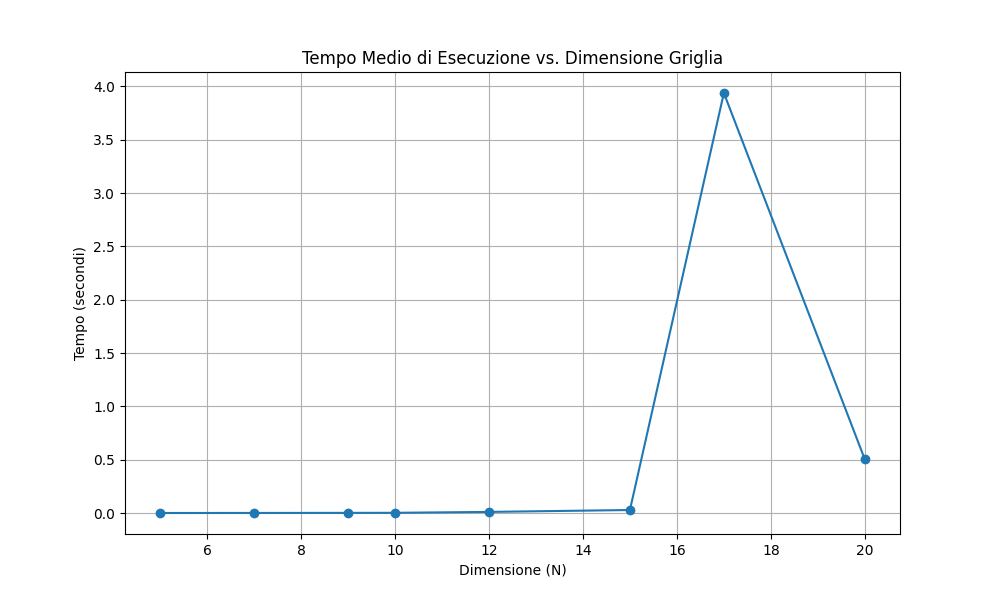
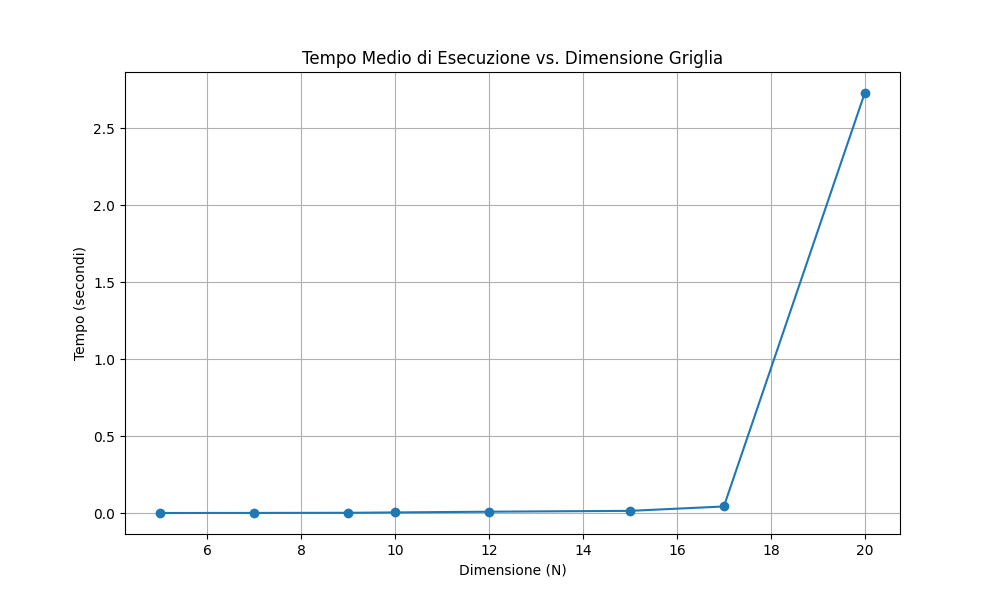
Generati nuovamente grafici

diff --git a/experiment.py b/experiment.py
@@ -74,9 +74,9 @@ def main(args):
             {"rows": 9, "cols": 9, "obstacle_ratio": 0.20, "num_runs": 20}, # config_index 2
             {"rows": 10, "cols": 10, "obstacle_ratio": 0.20, "num_runs": 10}, # config_index 3
             {"rows": 12, "cols": 12, "obstacle_ratio": 0.20, "num_runs": 10}, # config_index 4
-            {"rows": 15, "cols": 15, "obstacle_ratio": 0.20, "num_runs": 5},  # config_index 5
-            {"rows": 17, "cols": 17, "obstacle_ratio": 0.20, "num_runs": 5}, # config_index 6
-            {"rows": 20, "cols": 20, "obstacle_ratio": 0.20, "num_runs": 3},  # config_index 7
+            {"rows": 15, "cols": 15, "obstacle_ratio": 0.20, "num_runs": 10},  # config_index 5
+            {"rows": 17, "cols": 17, "obstacle_ratio": 0.20, "num_runs": 10}, # config_index 6
+            {"rows": 20, "cols": 20, "obstacle_ratio": 0.20, "num_runs": 10},  # config_index 7
         ],
         "ostacoli": [
             # Gamma fitta di percentuali su griglia 15x15 per trovare la soglia critica
